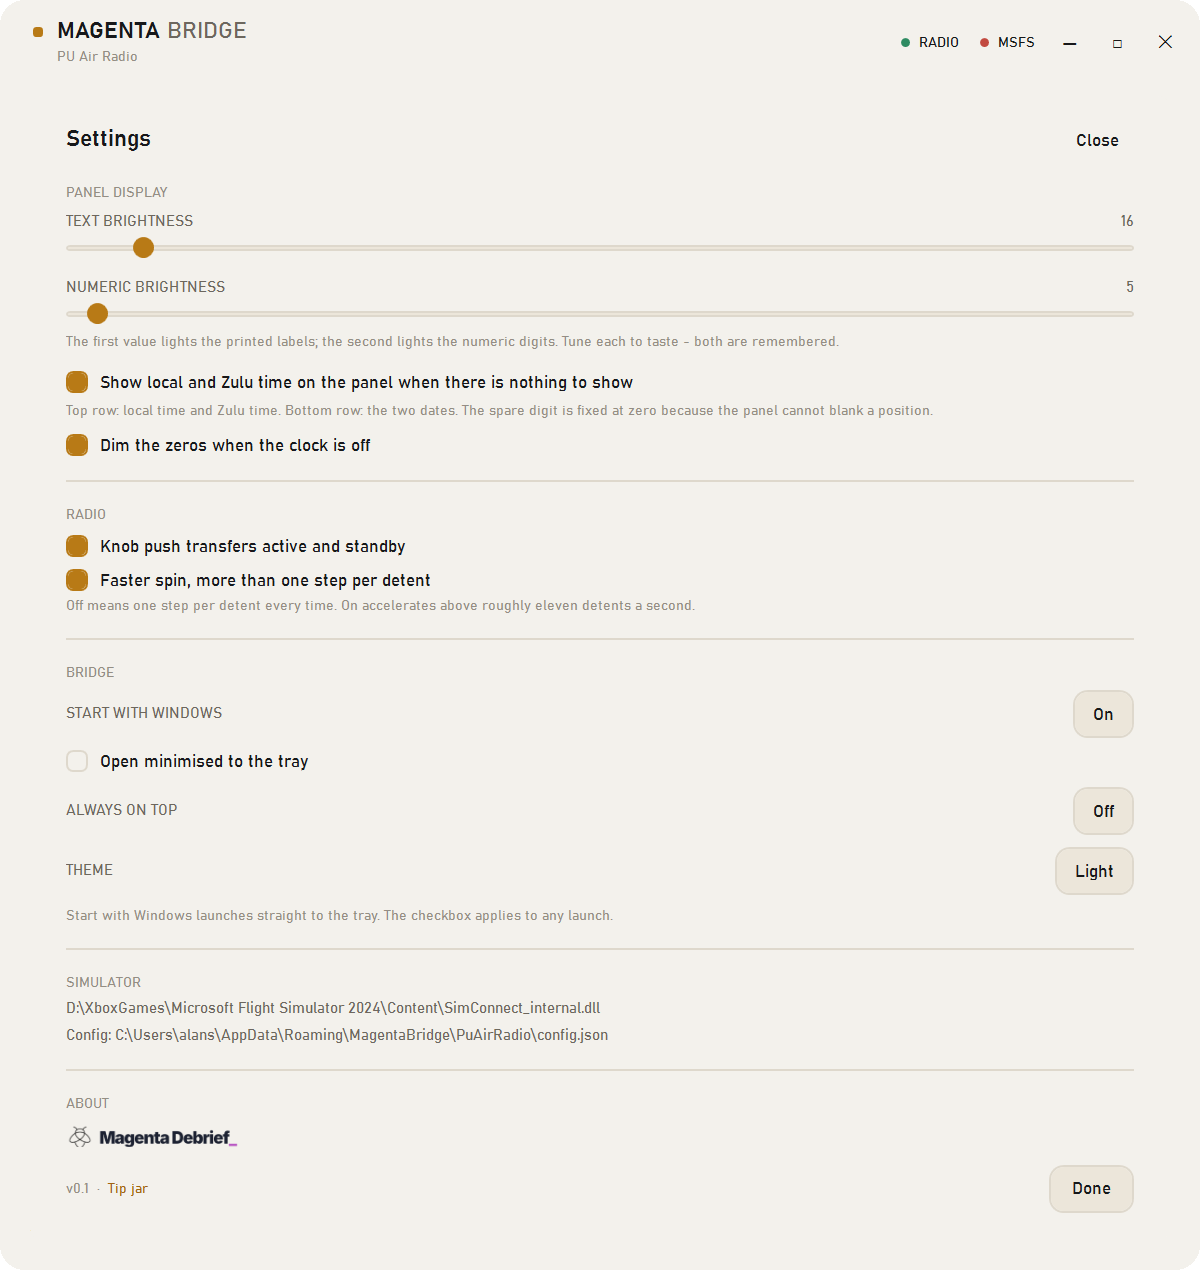
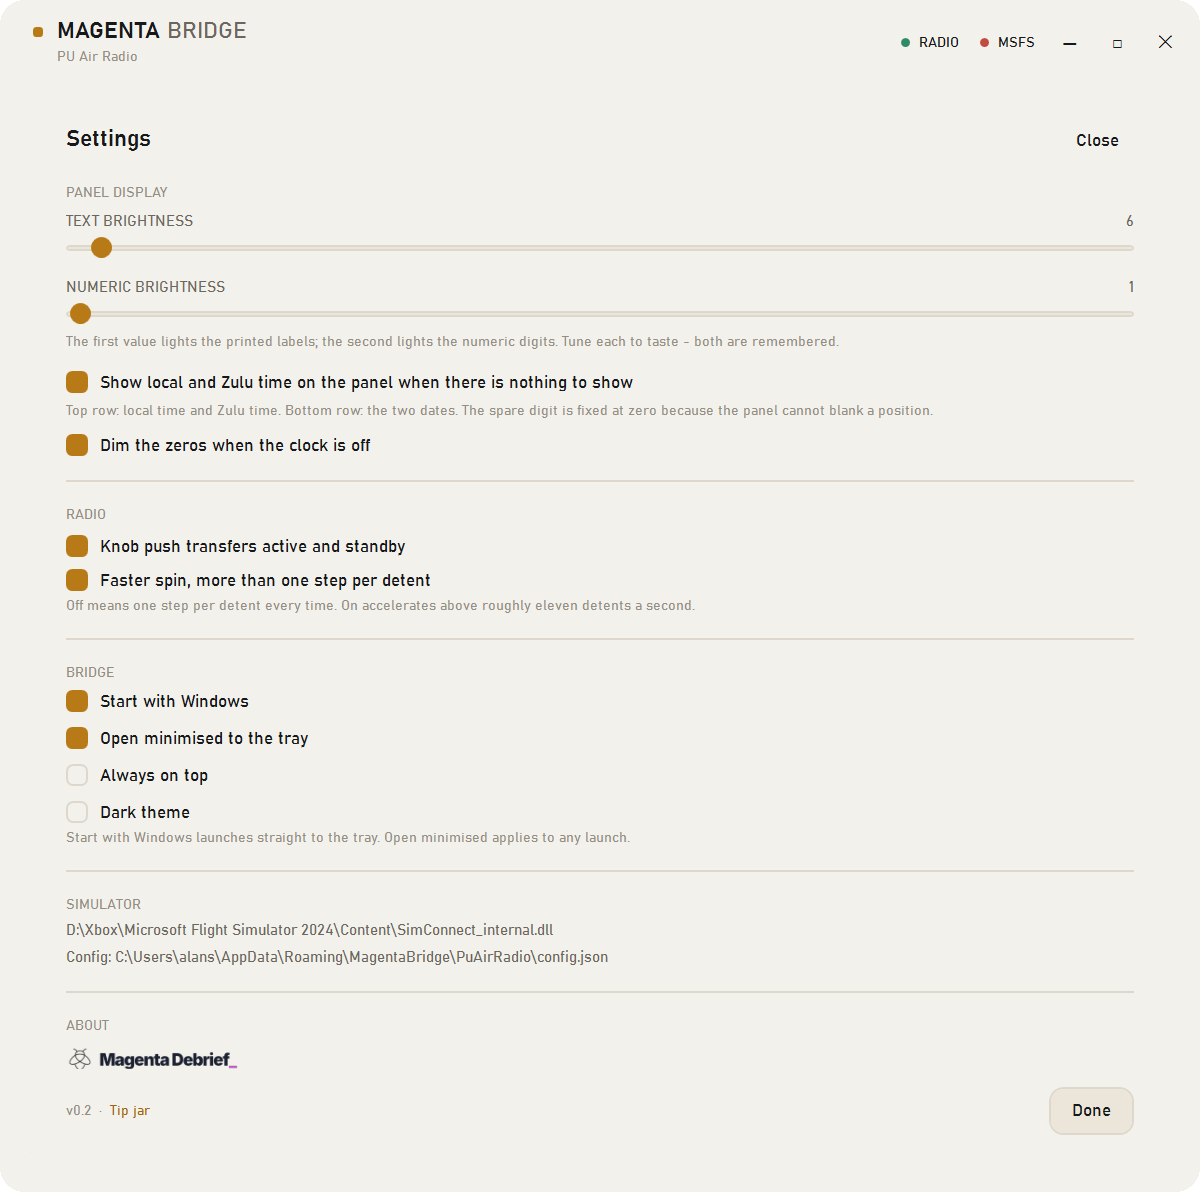
Release 0.2.0

diff --git a/README.md b/README.md
@@ -40,12 +40,13 @@ It is self-contained - no .NET runtime to install, no driver, no SimConnect redi
 ### First launch
 
 The panel keeps its selected COM/NAV mode inside its own firmware and only reports it when a
-control changes. So the first touch after a launch is what tells the bridge which side is COM and
-which is NAV. Until then the window says **PRESS A PANEL KEY** and the panel shows dim zeros
-rather than the vendor's 123.xx demo pattern. Turn a knob or rock a switch once.
+control changes. The bridge remembers where you left each row, so the window and the panel come
+up correct from the first second, marked **LAST SESSION**. The first touch confirms it, or corrects
+it if you moved a switch while the app was closed.
 
-After that the panel's mode switches drive the mode: the app follows the hardware, never the
-other way round.
+From then on the panel's mode switches drive the mode: the app follows the hardware, never the
+other way round. On a completely fresh install there is nothing to remember yet, so the window
+says **PRESS A PANEL KEY** and the panel shows the clock until you turn or rock something.
 
 ### If MSFS lists the panel as a game controller
 
@@ -94,7 +95,7 @@ window shows the whole frequency; both agree.
 
 - COM1/COM2 and NAV1/NAV2 tuning and transfers
 - Live active and standby frequencies on the panel and in the window
-- COM/NAV mode follows the panel's own switches
+- COM/NAV mode follows the panel's own switches, remembered between sessions
 - A clock on the panel whenever there is nothing to show: local and Zulu time on the top row, the two dates on the bottom
 - Display brightness, remembered per user
 - Auto-reconnect: unplug and replug the panel, start or quit MSFS, and it picks up again
